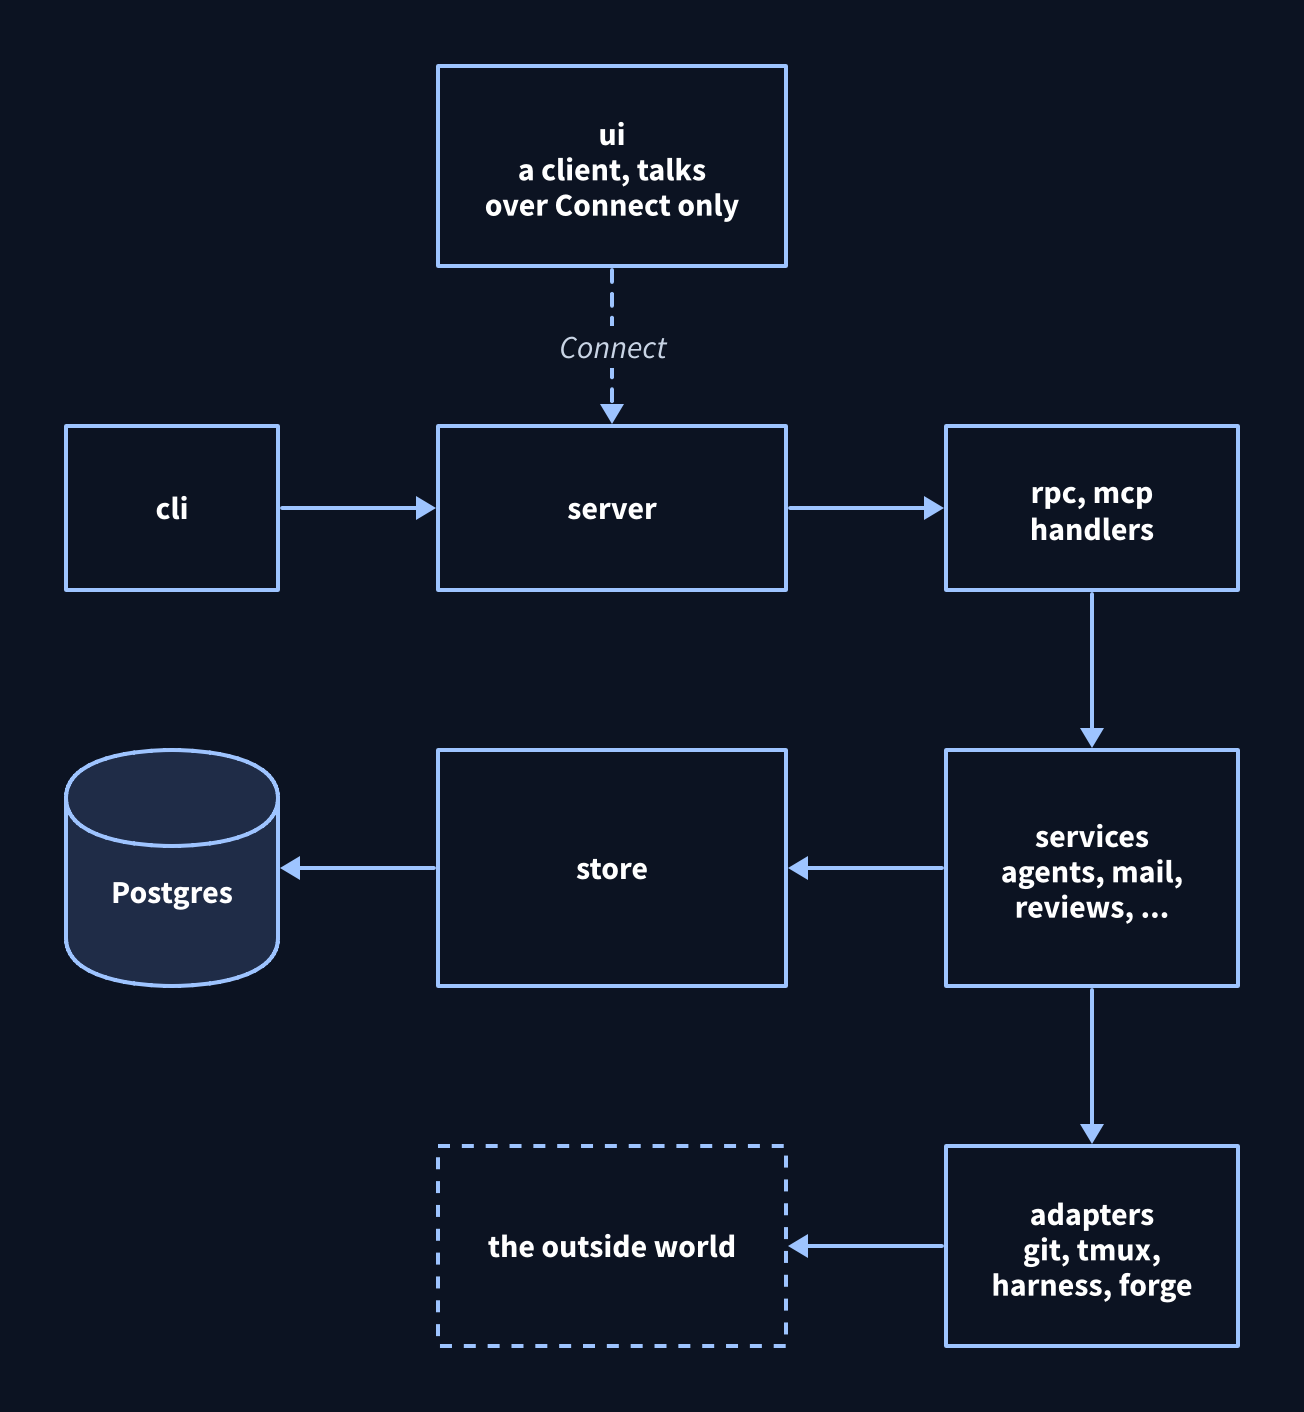
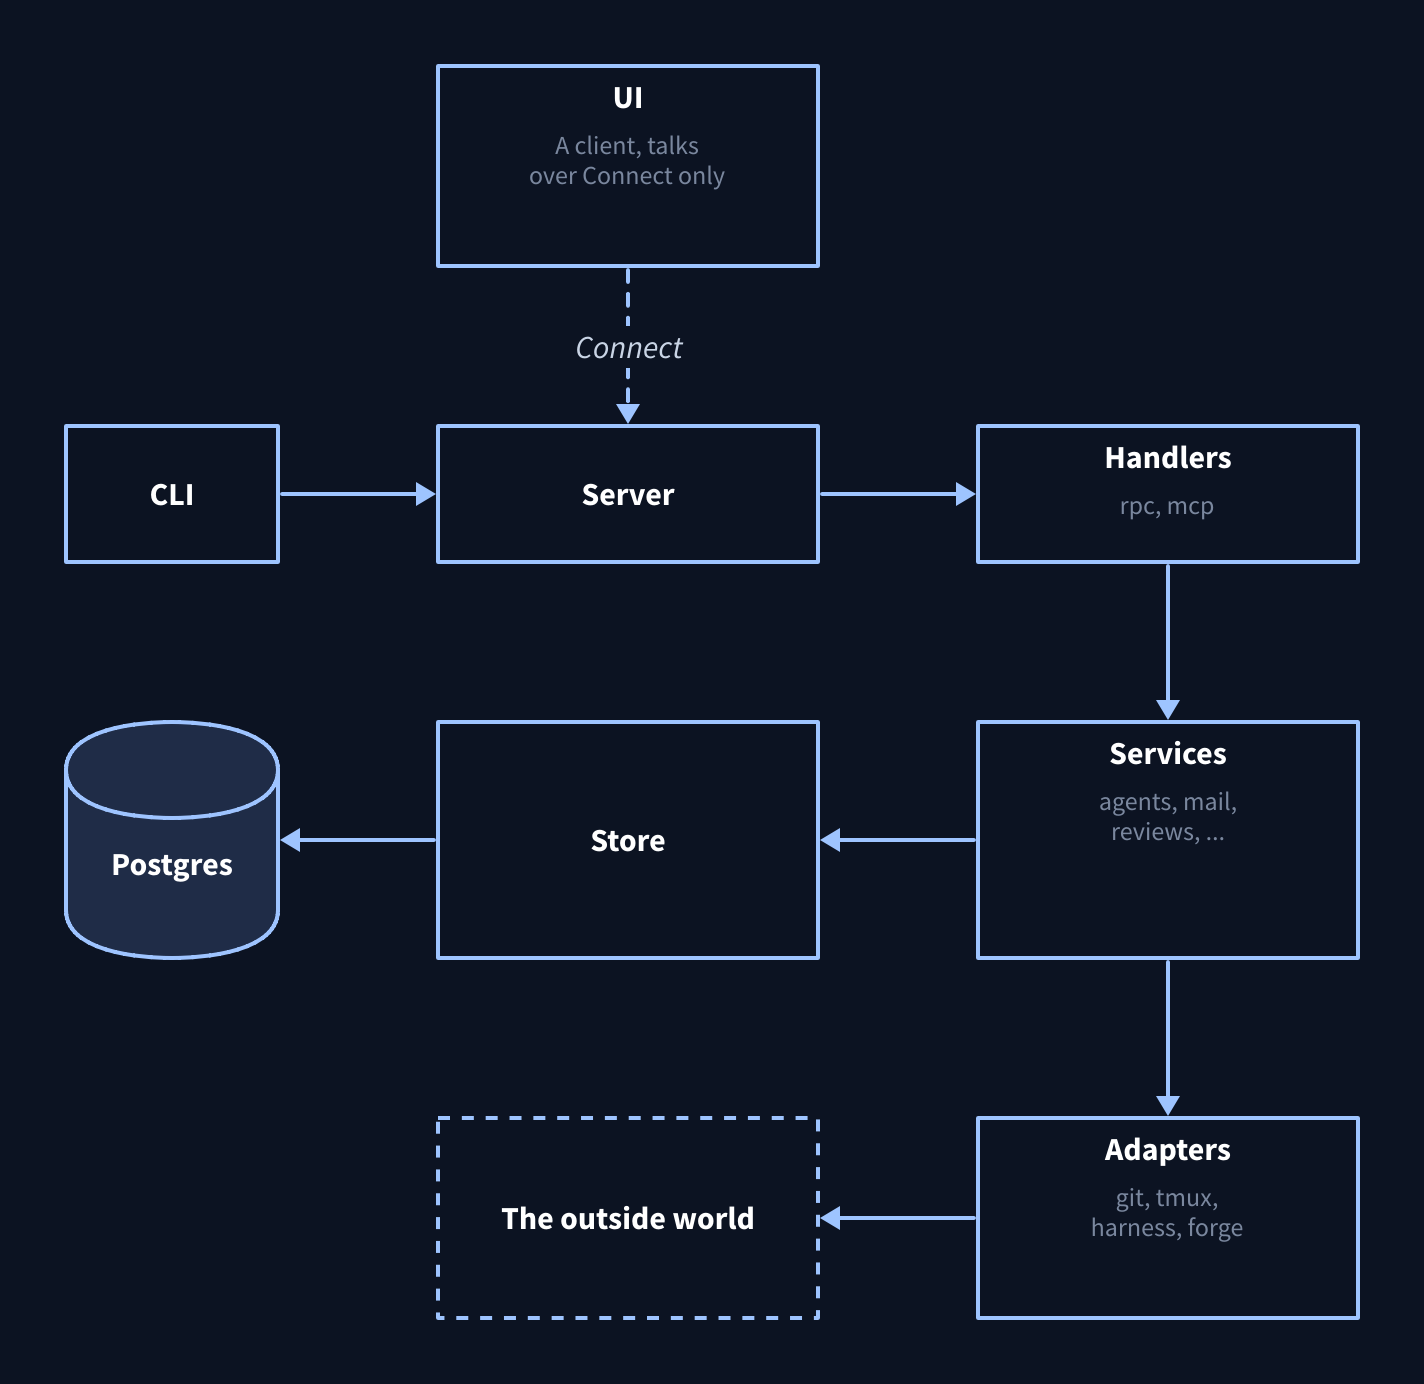
docs: title each diagram box with a note beneath

diff --git a/AGENTS.md b/AGENTS.md
@@ -32,7 +32,9 @@ instance makes from a script of keypresses under `recordings/`:
 The record-komrad skill under `.claude/skills` says how to write the script and attach the gif.
 
 A diagram in the docs is a D2 file under `docs/diagrams`, never ASCII art. Each one imports
-`_theme.d2` for the site's colours, and renders to `docs/public/diagrams/<name>.png`:
+`_theme.d2` for the site's colours. A box names its part in a capitalised title, and a box with
+a second line takes `class: box` and holds that line in a child with `class: note`. Each renders
+to `docs/public/diagrams/<name>.png`:
 
     mise run docs:diagram [name...]
 
